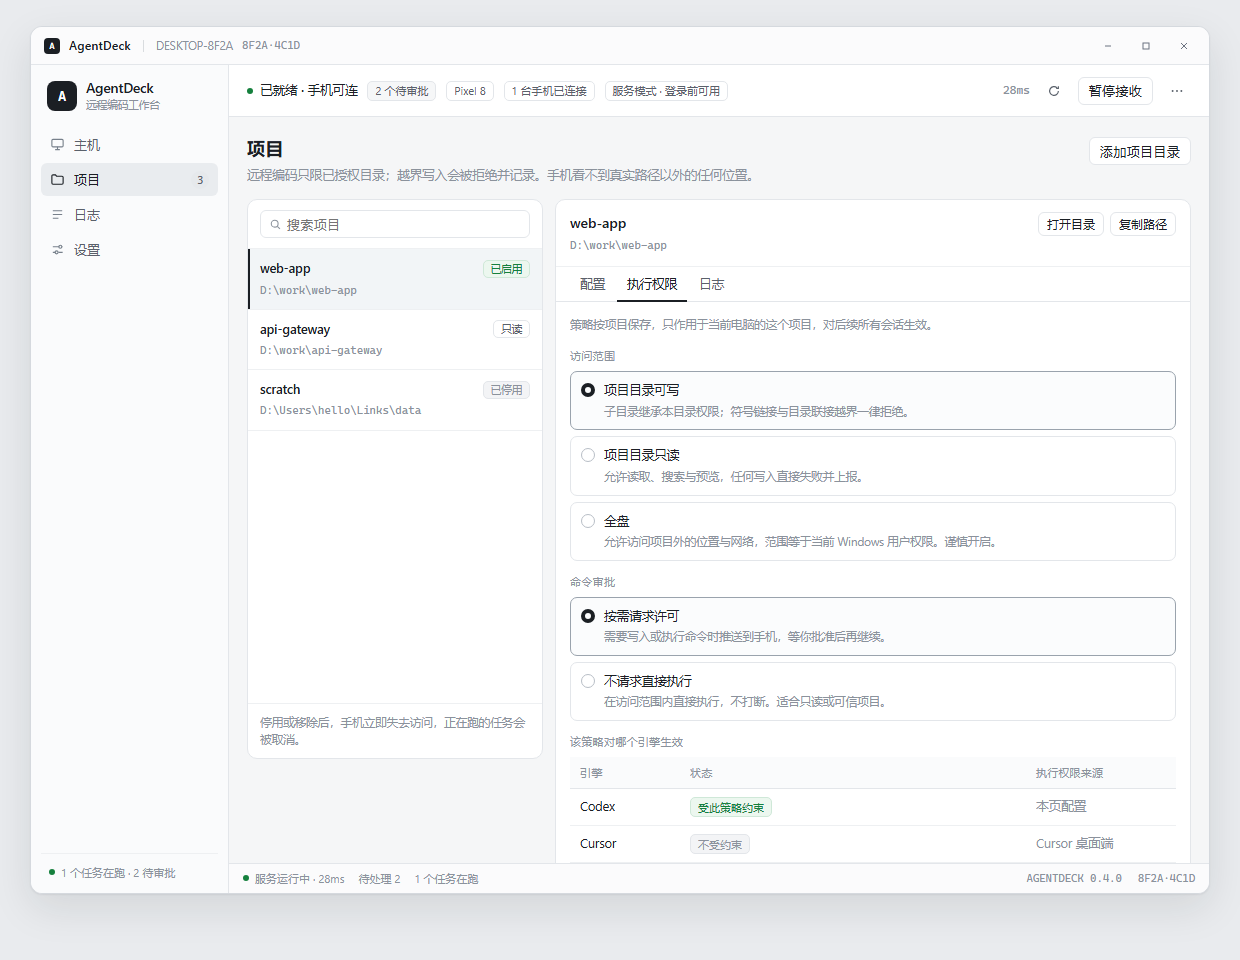
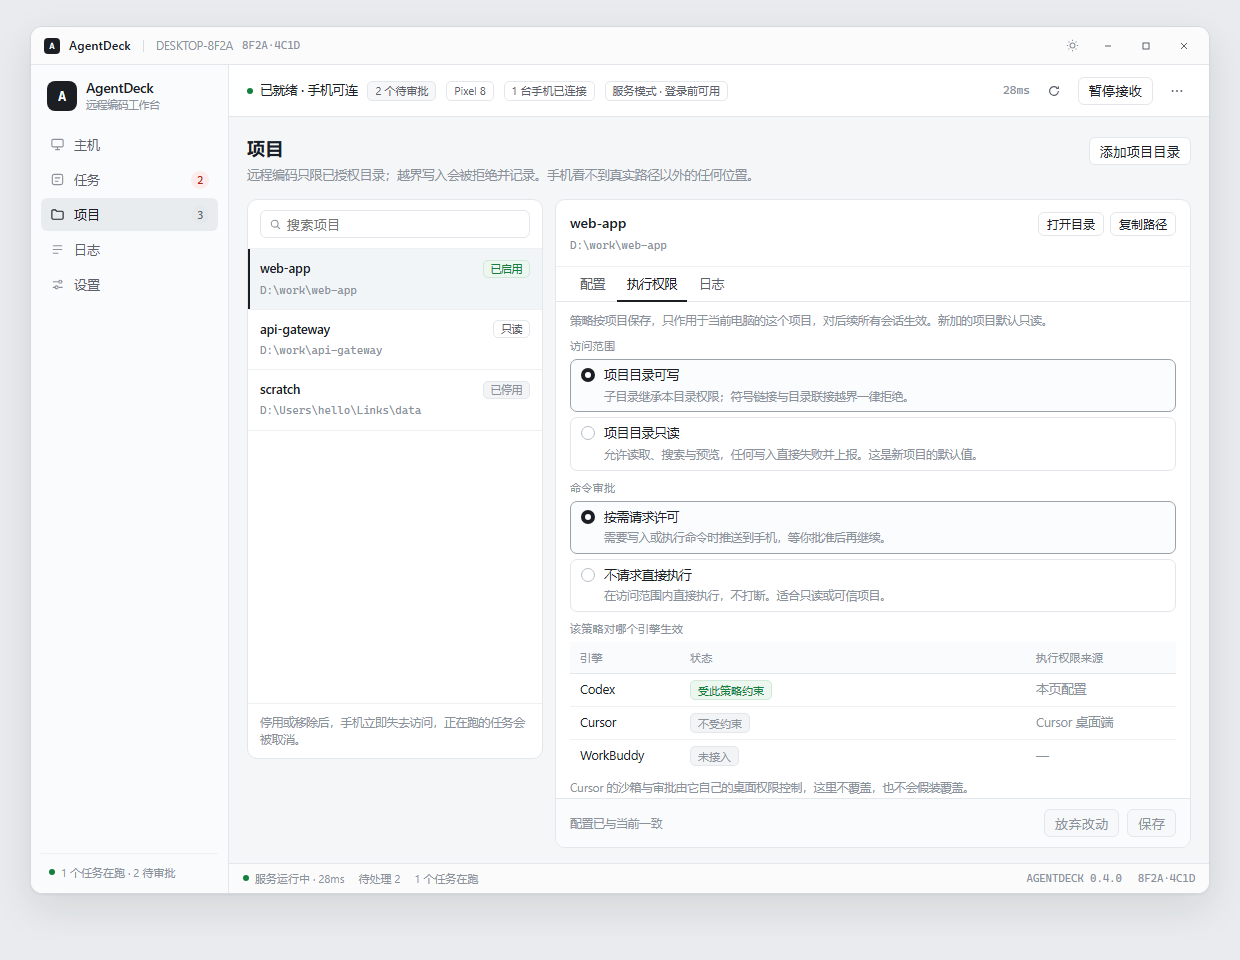
feat(design): UI 定稿——补任务页、删全盘访问、加叫停确认
- Windows 增至五页：主机 / 任务 / 项目 / 日志 / 设置
- 任务页只读 + 叫停，明确不提供批准按钮；主机页移走「正在执行」做纯诊断
- 执行权限去掉「全盘」，只保留项目目录可写 / 只读，与 registry 的两种沙箱一致
- 手机加第 7 屏「叫停确认」弹层，文案沿用 TraceScreen 现有 AlertDialog
- 待批准统一为 danger（原 nav badge 用 warn，与 tokens §6 冲突）
- 日志页移除导出、设置-接入补服务安装/停止、data-go 支持 data-tab
- 导出 PC 10 张、手机 14 张效果图；tokens §5 补导航计数与确认弹层

diff --git a/design/v3-windows.html b/design/v3-windows.html
@@ -87,6 +87,7 @@ html:not(.dark) .i-moon{display:none}
 .nav-item.active svg{color:var(--t1)}
 .nav-badge{margin-left:auto;min-width:18px;height:18px;padding:0 5px;border-radius:9px;background:var(--badge-bg);color:var(--t2);font:400 10.5px/18px var(--mono);text-align:center}
 .nav-badge.warn{background:var(--amber-bg);color:var(--amber)}
+.nav-badge.danger{background:var(--red-bg);color:var(--red)}
 .side-foot{margin-top:auto;padding:10px 8px 2px;border-top:1px solid var(--line2);font-size:11px;color:var(--t3);display:flex;align-items:center;gap:6px}
 /* main */
 .main{flex:1;min-width:0;display:flex;flex-direction:column}
@@ -111,6 +112,7 @@ html:not(.dark) .i-moon{display:none}
 .pill{display:inline-flex;align-items:center;gap:5px;height:20px;padding:0 7px;border-radius:5px;font-size:11px;border:1px solid var(--line);color:var(--t2);background:var(--panel);white-space:nowrap}
 .pill.ok{color:var(--green);background:var(--green-bg);border-color:var(--green-line)}
 .pill.warn{color:var(--amber);background:var(--amber-bg);border-color:var(--amber-line)}
+.pill.danger{color:var(--red);background:var(--red-bg);border-color:var(--red-line)}
 .pill.off{color:var(--t3);background:var(--tag-neutral)}
 .pill.plain{background:var(--plain-bg)}
 .banner{flex:none;display:flex;align-items:center;gap:8px;padding:8px 18px;background:var(--amber-bg);border-bottom:1px solid var(--amber-line);font-size:12px;color:var(--banner-fg)}
@@ -209,6 +211,11 @@ html:not(.dark) .i-moon{display:none}
 .opt .t{font-size:12.5px;font-weight:500}
 .opt .d{font-size:11.5px;color:var(--t3);margin-top:2px}
 .group-label{font-size:11px;color:var(--t3);margin:12px 0 7px;letter-spacing:.3px}
+/* 执行权限面板要在一屏内放完：两组单选 + 引擎表 + 保存条，行距比其它面板紧一档 */
+[data-pane="perm"] .pane-pad{padding-bottom:2px}
+[data-pane="perm"] .group-label{margin:8px 0 5px}
+[data-pane="perm"] .opt{padding:6px 10px;margin-bottom:5px}
+[data-pane="perm"] .tbl td{padding:6px 10px}
 /* log */
 .log-bar{display:flex;align-items:center;gap:8px;padding:9px 12px;border-bottom:1px solid var(--line);background:var(--bg-alt);flex-wrap:wrap}
 .sel{height:26px;width:132px;border:1px solid var(--line);border-radius:5px;background:var(--panel);font:400 12px/1 inherit;color:var(--t1);padding:0 6px;font-family:inherit}
@@ -278,6 +285,10 @@ html:not(.dark) .i-moon{display:none}
           <svg width="15" height="15" viewBox="0 0 16 16" fill="none" stroke="currentColor" stroke-width="1.2"><rect x="2" y="2.5" width="12" height="8" rx="1.2"/><path d="M5.5 13.5h5M8 10.5v3"/></svg>
           主机
         </button>
+        <button class="nav-item" data-go="tasks">
+          <svg width="15" height="15" viewBox="0 0 16 16" fill="none" stroke="currentColor" stroke-width="1.2"><rect x="2.5" y="2.5" width="11" height="11" rx="2"/><path d="M5.2 6.2h5.6M5.2 9.8h3.8"/></svg>
+          任务<span class="nav-badge danger">2</span>
+        </button>
         <button class="nav-item" data-go="projects">
           <svg width="15" height="15" viewBox="0 0 16 16" fill="none" stroke="currentColor" stroke-width="1.2"><path d="M2 4.2c0-.7.6-1.2 1.2-1.2h2.6l1.2 1.5h5.8c.7 0 1.2.6 1.2 1.2v6.1c0 .7-.6 1.2-1.2 1.2H3.2c-.7 0-1.2-.6-1.2-1.2z"/></svg>
           项目<span class="nav-badge">3</span>
@@ -315,7 +326,7 @@ html:not(.dark) .i-moon{display:none}
       <div class="banner" id="banner">
         <svg width="13" height="13" viewBox="0 0 16 16" fill="none" stroke="currentColor" stroke-width="1.3"><path d="M8 1.8 15 14H1z"/><path d="M8 6v3.4M8 11.8v.1"/></svg>
         <span><b>WorkBuddy 未登录。</b>手机端会看到该引擎不可用，Codex 与 Cursor 不受影响。</span>
-        <a class="link" data-go="settings">去引擎设置</a>
+        <a class="link" data-go="settings" data-tab="eng">去引擎设置</a>
       </div>
 
       <div class="content">
@@ -351,7 +362,7 @@ html:not(.dark) .i-moon{display:none}
                   <div class="v">Codex 0.51.2 就绪 · Cursor 0.42.3 就绪 · WorkBuddy 未登录</div>
                   <div class="sub">只探测本机安装与登录状态；未就绪的引擎不会出现在手机端的工具列表里。</div>
                 </div>
-                <div class="row-a"><a class="link">去处理</a><a class="link muted">重新检测</a></div>
+                <div class="row-a"><a class="link" data-go="settings" data-tab="eng">去处理</a><a class="link muted">重新检测</a></div>
               </div>
               <div class="row">
                 <div class="row-k">项目</div>
@@ -373,26 +384,6 @@ html:not(.dark) .i-moon{display:none}
           </div>
 
           <div class="card">
-            <div class="card-h">
-              <h2>正在执行</h2>
-              <span class="pill ok">1 个任务</span>
-              <div class="right"><a class="link muted">全部任务</a></div>
-            </div>
-            <table class="tbl">
-              <thead><tr><th style="width:150px">项目</th><th>任务</th><th style="width:100px">已运行</th><th style="width:96px">状态</th><th style="width:150px"></th></tr></thead>
-              <tbody>
-                <tr>
-                  <td>web-app</td>
-                  <td>把登录页的校验逻辑抽成 <span class="mono">useAuth</span>，并补上过期提示</td>
-                  <td class="num">02:14</td>
-                  <td><span class="pill ok"><span class="dot"></span>运行中</span></td>
-                  <td style="text-align:right"><a class="link">查看轨迹</a> <a class="link" style="margin-left:10px;color:var(--red)">叫停</a></td>
-                </tr>
-              </tbody>
-            </table>
-          </div>
-
-          <div class="card">
             <div class="card-h"><h2>服务与身份</h2><div class="right"><a class="link muted">打开服务日志</a><button class="btn sm">重新配对</button><button class="btn sm danger">撤销配对</button></div></div>
             <div class="card-b">
               <div class="kv">
@@ -402,6 +393,80 @@ html:not(.dark) .i-moon{display:none}
                 <div><div class="k">上次上线</div><div class="v">2 分钟前 · 持续运行 3 天 4 小时</div></div>
               </div>
             </div>
+          </div>
+        </section>
+
+        <!-- 任务 -->
+        <section class="page" data-page="tasks">
+          <div class="page-head">
+            <div>
+              <h1>任务</h1>
+              <p>看得到全部，只批不了任何一条。批准在手机上完成，电脑端只保留叫停。</p>
+            </div>
+          </div>
+
+          <div class="card">
+            <div class="card-h">
+              <h2>正在执行</h2>
+              <span class="pill ok"><span class="dot"></span>1 个</span>
+              <div class="right"><span class="sub" style="margin:0">事件实时推送</span></div>
+            </div>
+            <table class="tbl">
+              <thead><tr><th style="width:120px">项目</th><th>任务</th><th style="width:84px">已运行</th><th style="width:190px">最后一条事件</th><th style="width:142px"></th></tr></thead>
+              <tbody>
+                <tr>
+                  <td>web-app</td>
+                  <td>把登录页的校验逻辑抽成 <span class="mono">useAuth</span>，并补上过期提示</td>
+                  <td class="num">02:14</td>
+                  <td class="muted">20:08:44 消息</td>
+                  <td style="text-align:right"><a class="link">查看轨迹</a><a class="link" style="margin-left:10px;color:var(--red)">叫停</a></td>
+                </tr>
+              </tbody>
+            </table>
+            <div class="sub" style="padding:9px 14px 11px">叫停会终止本次运行并保留已经产出的改动，二次确认后执行。撤销整个权限请到「项目」页。</div>
+          </div>
+
+          <div class="card">
+            <div class="card-h">
+              <h2>待批准</h2>
+              <span class="pill danger">2 条</span>
+              <div class="right"><span class="sub" style="margin:0">只有手机能批</span></div>
+            </div>
+            <table class="tbl">
+              <thead><tr><th style="width:120px">项目</th><th>请求内容</th><th style="width:190px">影响范围</th><th style="width:88px">已等待</th><th style="width:88px">等待对象</th></tr></thead>
+              <tbody>
+                <tr>
+                  <td>web-app</td>
+                  <td class="mono">rm -rf dist/ &amp;&amp; pnpm build</td>
+                  <td class="muted">删除并重建 dist/ 到 1 个目录</td>
+                  <td class="num">04:12</td>
+                  <td>Pixel 8</td>
+                </tr>
+                <tr>
+                  <td>api-gateway</td>
+                  <td class="mono">test/rate-limit.spec.ts <span class="muted">+12</span></td>
+                  <td class="muted">写入 1 个文件，追加 12 行</td>
+                  <td class="num">02:50</td>
+                  <td>Pixel 8</td>
+                </tr>
+              </tbody>
+            </table>
+            <div class="sub" style="padding:9px 14px 11px">这里刻意不给批准按钮：让人离开工位去处理，正是这个产品存在的理由。要拒绝请在手机上操作，或直接叫停整个任务。</div>
+          </div>
+
+          <div class="card" style="margin-bottom:0">
+            <div class="card-h">
+              <h2>最近完成</h2>
+              <div class="right"><a class="link muted" data-go="logs">在日志里看全部</a></div>
+            </div>
+            <table class="tbl">
+              <thead><tr><th style="width:120px">项目</th><th>摘要</th><th style="width:84px">耗时</th><th style="width:96px">结束于</th><th style="width:80px">结果</th></tr></thead>
+              <tbody>
+                <tr><td>api-gateway</td><td>给 <span class="mono">/orders</span> 加限流中间件</td><td class="num">11:40</td><td class="muted">19:52</td><td><span class="pill ok">完成</span></td></tr>
+                <tr><td>web-app</td><td>修掉刷新后登录态丢失</td><td class="num">06:12</td><td class="muted">19:31</td><td><span class="pill ok">完成</span></td></tr>
+                <tr><td>web-app</td><td>依赖升级到 pnpm 9.12</td><td class="num">01:08</td><td class="muted">19:04</td><td><span class="pill off">已取消</span></td></tr>
+              </tbody>
+            </table>
           </div>
         </section>
 
@@ -484,11 +549,10 @@ html:not(.dark) .i-moon{display:none}
 
               <div class="tabpanes" data-pane="perm">
                 <div class="pane-pad">
-                  <div class="sub" style="padding:10px 0 2px">策略按项目保存，只作用于当前电脑的这个项目，对后续所有会话生效。</div>
+                  <div class="sub" style="padding:6px 0 0">策略按项目保存，只作用于当前电脑的这个项目，对后续所有会话生效。新加的项目默认只读。</div>
                   <div class="group-label">访问范围</div>
                   <div class="opt on"><span class="mark"></span><div><div class="t">项目目录可写</div><div class="d">子目录继承本目录权限；符号链接与目录联接越界一律拒绝。</div></div></div>
-                  <div class="opt"><span class="mark"></span><div><div class="t">项目目录只读</div><div class="d">允许读取、搜索与预览，任何写入直接失败并上报。</div></div></div>
-                  <div class="opt"><span class="mark"></span><div><div class="t">全盘</div><div class="d">允许访问项目外的位置与网络，范围等于当前 Windows 用户权限。谨慎开启。</div></div></div>
+                  <div class="opt"><span class="mark"></span><div><div class="t">项目目录只读</div><div class="d">允许读取、搜索与预览，任何写入直接失败并上报。这是新项目的默认值。</div></div></div>
                   <div class="group-label">命令审批</div>
                   <div class="opt on"><span class="mark"></span><div><div class="t">按需请求许可</div><div class="d">需要写入或执行命令时推送到手机，等你批准后再继续。</div></div></div>
                   <div class="opt"><span class="mark"></span><div><div class="t">不请求直接执行</div><div class="d">在访问范围内直接执行，不打断。适合只读或可信项目。</div></div></div>
@@ -501,9 +565,9 @@ html:not(.dark) .i-moon{display:none}
                       <tr><td>WorkBuddy</td><td><span class="pill off">未接入</span></td><td class="muted">—</td></tr>
                     </tbody>
                   </table>
-                  <div class="sub" style="padding:8px 0 2px">Cursor 的沙箱与审批由它自己的桌面权限控制，这里不覆盖，也不会假装覆盖。</div>
+                  <div class="sub" style="padding:5px 0 0">Cursor 的沙箱与审批由它自己的桌面权限控制，这里不覆盖，也不会假装覆盖。</div>
                 </div>
-                <div class="save-bar"><span class="state">有未保存的改动</span><div class="actions"><button class="btn">放弃改动</button><button class="btn primary">保存</button></div></div>
+                <div class="save-bar"><span class="state">配置已与当前一致</span><div class="actions"><button class="btn" disabled>放弃改动</button><button class="btn primary" disabled>保存</button></div></div>
               </div>
 
               <div class="tabpanes" data-pane="plog">
@@ -529,7 +593,6 @@ html:not(.dark) .i-moon{display:none}
               <h1>日志</h1>
               <p>任务、连接与审批的原始记录。断线按游标补齐，历史随时回看。</p>
             </div>
-            <div class="actions"><button class="btn">导出日志</button></div>
           </div>
 
           <div class="card" style="margin-bottom:0">
@@ -587,7 +650,7 @@ html:not(.dark) .i-moon{display:none}
                 <div class="field"><label>设备名称</label><div class="ctl"><input class="input" value="DESKTOP-8F2A"><div class="sub">手机设备列表里显示的名字。</div></div></div>
                 <div class="field"><label>Relay 地址</label><div class="ctl"><div class="inline"><input class="input" value="wss://relay.agentdeck.dev"><button class="btn sm">测试连接</button></div><div class="sub">保存后立即重连；失败时保留输入并指出下一步。</div></div></div>
                 <div class="field"><label>证书指纹</label><div class="ctl"><input class="input" readonly value="SHA256 4C:1D:8F:2A:9E:77:B3:05:6A:11:DE:42:70:8C:19:AF"><div class="sub">已钉扎。Relay 换证后需要重新配对，否则按失败处理。</div></div></div>
-                <div class="field"><label>服务状态</label><div class="ctl" style="padding-top:5px"><span class="pill ok"><span class="dot"></span>运行中 · 登录前可上线</span><div class="sub">以 Windows 服务运行，托盘退出后继续接收指令。</div></div></div>
+                <div class="field"><label>服务状态</label><div class="ctl" style="padding-top:5px"><div style="display:flex;align-items:center;gap:10px"><span class="pill ok"><span class="dot"></span>运行中 · 登录前可上线</span><button class="btn sm">重新安装</button><button class="btn sm">停止</button></div><div class="sub">以 Windows 服务运行，托盘退出后继续接收指令。停止后手机立即断开，正在执行的任务会被取消。</div></div></div>
               </div>
               <div class="save-bar"><span class="state">有未保存的改动</span><div class="actions"><button class="btn">放弃改动</button><button class="btn primary">保存并重连</button></div></div>
             </div>
@@ -658,6 +721,12 @@ document.querySelectorAll('[data-go]').forEach(function(el){
     document.querySelectorAll('.nav-item').forEach(function(n){ n.classList.toggle('active', n.dataset.go === id); });
     document.getElementById('banner').style.display = (id === 'host') ? 'flex' : 'none';
     document.querySelector('.content').scrollTop = 0;
+    // 带 data-tab 的跳转会落到对应标签页，避免「去引擎设置」停在接入页
+    var tab = el.getAttribute('data-tab');
+    if (tab) {
+      var t = document.querySelector('.page.active .tab[data-tab="' + tab + '"]');
+      if (t) t.click();
+    }
   });
 });
 document.querySelectorAll('.tab').forEach(function(t){

diff --git a/design/v3-phone.html b/design/v3-phone.html
@@ -116,6 +116,15 @@ h1.page{font-size:19px;font-weight:600;margin:2px 0 2px;letter-spacing:.2px}
 .tb.on{color:var(--act);font-weight:600}
 .tb .badge{position:absolute;top:-3px;left:calc(50% + 8px);box-shadow:0 0 0 1.5px var(--badge-ring);min-width:16px;height:16px;padding:0 4px;border-radius:8px;background:var(--red);color:var(--on-red);font:500 10px/16px var(--mono);text-align:center}
 .home-ind{flex:none;height:18px;display:grid;place-items:center;background:var(--tabbar)}
+/* 破坏性操作的二次确认：遮罩压暗整屏，对话框居中，危险动作只在右侧出现一次 */
+.scrim{position:absolute;inset:0;background:rgba(26,22,17,.44);z-index:4}
+:root.dark .scrim{background:rgba(0,0,0,.58)}
+.dlg{position:absolute;left:22px;right:22px;top:50%;transform:translateY(-50%);z-index:5;background:var(--card);border:1px solid var(--line);border-radius:16px;padding:18px 18px 12px;box-shadow:0 14px 34px rgba(30,25,18,.24)}
+.dlg-t{font-size:15px;font-weight:600;letter-spacing:-.1px}
+.dlg-b{font-size:12.5px;color:var(--ink2);line-height:1.62;margin-top:8px}
+.dlg-a{display:flex;justify-content:flex-end;gap:4px;margin-top:14px}
+.dlg-btn{font-size:13px;padding:9px 13px;border-radius:10px;color:var(--ink3)}
+.dlg-btn.danger{color:var(--red);background:var(--red-bg);font-weight:500}
 .home-ind i{width:134px;height:4px;border-radius:2px;background:var(--indicator);display:block}
 /* detail */
 .cmdblock{background:var(--code-bg);border:1px solid var(--line2);border-radius:12px;padding:12px;font-family:var(--mono);font-size:13.5px;line-height:1.55;word-break:break-all;margin:10px 0 4px}
@@ -518,6 +527,70 @@ html:not(.dark) .i-moon{display:none}
   <div class="home-ind"><i></i></div>
 </div>
 <figcaption><b>6 · 设备详情</b>　四项就绪度 + 项目 + 引擎</figcaption>
+</figure>
+
+<!-- 7 叫停确认 -->
+<figure id="f7">
+<div class="phone">
+  <div class="statusbar"><span>20:21</span><span class="sb-r">
+    <svg width="15" height="11" viewBox="0 0 15 11" fill="currentColor"><rect x="0" y="7" width="3" height="4" rx="1"/><rect x="4" y="5" width="3" height="6" rx="1"/><rect x="8" y="3" width="3" height="8" rx="1"/><rect x="12" y="0" width="3" height="11" rx="1"/></svg>
+    <svg width="14" height="11" viewBox="0 0 14 11" fill="none" stroke="currentColor" stroke-width="1.4"><path d="M1 4.2a8.5 8.5 0 0 1 12 0M3.4 6.6a5.2 5.2 0 0 1 7.2 0"/><circle cx="7" cy="9.4" r="1" fill="currentColor" stroke="none"/></svg>
+    <svg width="22" height="11" viewBox="0 0 22 11" fill="none"><rect x="0.5" y="0.5" width="18" height="10" rx="3" stroke="currentColor"/><rect x="2" y="2" width="13" height="7" rx="1.6" fill="currentColor"/><path d="M20 4v3" stroke="currentColor" stroke-width="1.6"/></svg>
+  </span></div>
+  <div class="appbar">
+    <div class="back"><svg width="18" height="18" viewBox="0 0 18 18" fill="none" stroke="currentColor" stroke-width="1.7"><path d="M11 4L6 9l5 5"/></svg></div>
+    <div class="ab-main">
+      <div class="ab-title">web-app · Codex</div>
+      <div class="ab-sub"><span class="dot"></span>运行中 · 02:14 · 会话 7c1a</div>
+    </div>
+    <div class="ab-act"><span class="link danger">叫停</span></div>
+  </div>
+  <div class="body" style="display:flex;flex-direction:column;justify-content:flex-end">
+    <div class="card" style="margin-bottom:14px">
+      <div style="font-size:11.5px;color:var(--ink3);margin-bottom:5px">本轮目标 · 20:06:41 · 来自手机</div>
+      <div style="font-size:13.5px;line-height:1.5">把登录页的校验逻辑抽成 <span class="mono" style="font-size:12.5px">useAuth</span>，并补上过期提示</div>
+    </div>
+    <div class="ev ok"><span class="t">20:06:58</span>会话开始 · Codex 0.51.2 · 项目 web-app</div>
+    <div class="ev msg"><span class="t">20:07:12</span>校验逻辑现在散在三个组件里，我抽成一个 hook。</div>
+    <div class="ev file"><span class="t">20:07:33</span>读取 src/pages/Login.tsx
+      <div class="c">−42 +0</div>
+    </div>
+    <div class="ev msg"><span class="t">20:07:51</span>我先把校验逻辑抽成 hook，再补过期提示。
+      <div class="c">src/hooks/useAuth.ts 已创建</div>
+    </div>
+    <div class="ev file"><span class="t">20:07:55</span>写入 src/hooks/useAuth.ts
+      <div class="c">+18 −0</div>
+    </div>
+    <div class="ev ok"><span class="t">20:08:12</span>审批已批准 · 手机 Pixel 8</div>
+    <div class="ev cmd"><span class="t">20:08:41</span>执行命令
+      <div class="c">npm run dev<br>VITE v5.4.2 ready in 412 ms</div>
+    </div>
+    <div class="ev msg"><span class="t">20:08:44</span>开发服务器起来了，点下面的预览看效果。</div>
+    <div class="pv">
+      <div class="ic"><svg width="16" height="16" viewBox="0 0 18 18" fill="none" stroke="currentColor" stroke-width="1.6"><rect x="2" y="3" width="14" height="9" rx="1.5"/><path d="M6 15h6M9 12v3"/></svg></div>
+      <div><div class="tt">预览端口已就绪</div><div class="ss">localhost:5173</div></div>
+      <div class="go"><span class="pill ok">打开</span></div>
+    </div>
+    <div class="note" style="padding:6px 4px 0">
+      <svg width="15" height="15" viewBox="0 0 16 16" fill="none" stroke="currentColor" stroke-width="1.4" style="flex:none;margin-top:2px"><path d="M3 8.4l3 3 7-6.6"/></svg>
+      <div>已补齐至 20:08:44 · 断线期间 12 条，无重复</div>
+    </div>
+  </div>
+  <div class="dock">
+    <div class="dock-box">
+      <div class="ph">接着说，模型记得上一轮</div>
+      <div class="send"><svg width="15" height="15" viewBox="0 0 16 16" fill="none" stroke="currentColor" stroke-width="1.8"><path d="M8 12.5V3.5M4 7l4-4 4 4"/></svg></div>
+    </div>
+  </div>
+  <div class="scrim"></div>
+  <div class="dlg">
+    <div class="dlg-t">叫停这个任务？</div>
+    <div class="dlg-b">正在执行的命令会中断，已经产生的改动会留在工作目录里。叫停后不能续跑，只能重新提交。</div>
+    <div class="dlg-a"><span class="dlg-btn">返回</span><span class="dlg-btn danger">叫停</span></div>
+  </div>
+  <div class="home-ind"><i></i></div>
+</div>
+<figcaption><b>7 · 叫停确认</b>　叠加在轨迹上，破坏性操作二次确认</figcaption>
 </figure>
 
 </div>

diff --git a/design/v3-tokens.md b/design/v3-tokens.md
@@ -97,6 +97,10 @@
 
 **按钮层级**：一屏只允许一个主按钮（`act` 底白字）；其余为白底细边；危险操作用 `danger` 文字 + `danger-line` 边，**不用红底**（红底会被当成主按钮）。
 
+**导航计数**：Windows 左导航项右侧的 `nav-badge`（18 高、圆角 9、等宽 10.5、`margin-left:auto`）。只有「待批准」用 `danger` 底，项目数这类中性计数用 `badge-bg`。手机 tab 上的 `badge` 是同一语义的圆形版本（16 高、与底同色的 1.5px 描边环），不靠阴影浮起。
+
+**确认弹层**：只用于破坏性动作（叫停任务、撤销配对）。遮罩 `rgba(26,22,17,.44)`（深色 `.58`），对话框居中、圆角 16、宽度 = 屏宽 − 44，无标题图标。按钮行右对齐、**最多两个**：左侧灰字「返回」，右侧危险动作用 `danger` 字 + `danger-bg` 底。按钮文字必须是动作本身（叫停 / 撤销），**不写「确定」**。
+
 **左状态条**：只在列表卡上使用，宽 3px、上下内缩 12px、圆角 2。purpose 是让人扫读列表而不读标签：红=待批、绿=运行中、灰=离线或失效。**详情页不用状态条**，改用标签。
 
 **就绪度**：Windows 用四行（名称 + 值 + 右侧「重新检查」）；手机用四格条（4px 高、间隔 6）呈现概览，点开进详情再看四行。两种呈现必须共用同一个状态源。
@@ -156,8 +160,10 @@
 | #1 就绪度 | §6 状态表 + §5「就绪度」两种呈现 |
 | #5 执行轨迹 | §6 事件点着色（消息灰、命令红、文件琥珀、结束绿） |
 | #6 预览端口 | §5 卡片 + `link` 行动；预览块本身用中性底，绿只留在图标 |
-| #8 白名单与执行权限 | §5 单选卡 + 表格；策略生效范围用标签而非颜色区分 |
+| #8 白名单与执行权限 | §5 单选卡 + 表格；策略生效范围用标签而非颜色区分；访问范围只有两项，`全盘` 不接受 |
 | #9 常驻与自启 | §5 键值行 + `ok/off` 双态 |
+| #3 任务队列（PC 任务页） | §5 表格 + 标签；三张卡按「正在执行 / 待批准 / 最近完成」分，不合并成一张大表 |
+| #7 叫停 | §5「确认弹层」+ `danger` 字按钮 |
 
 ---
 
